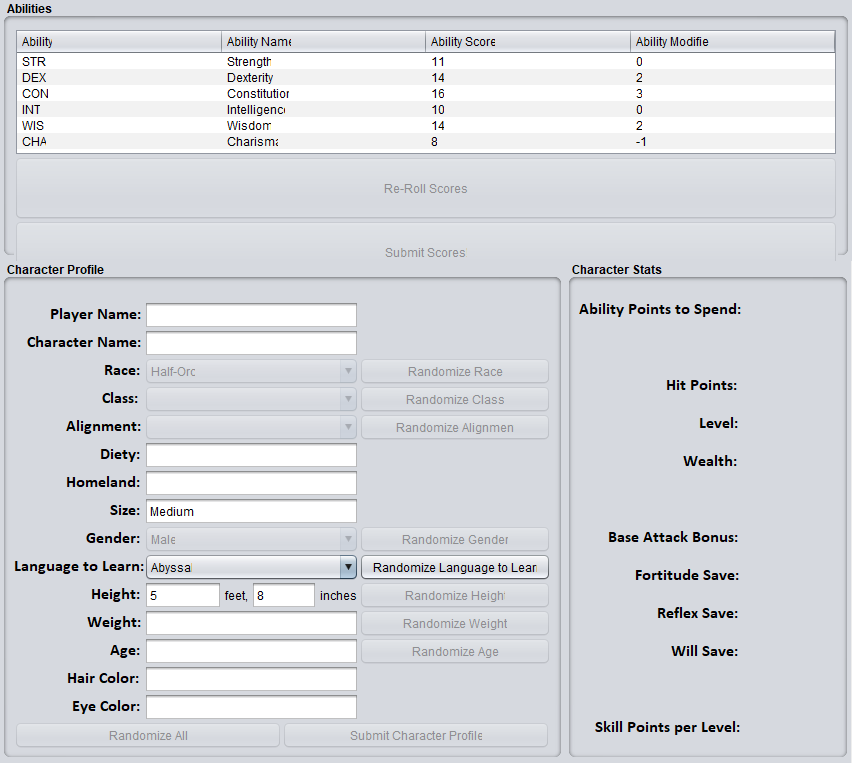
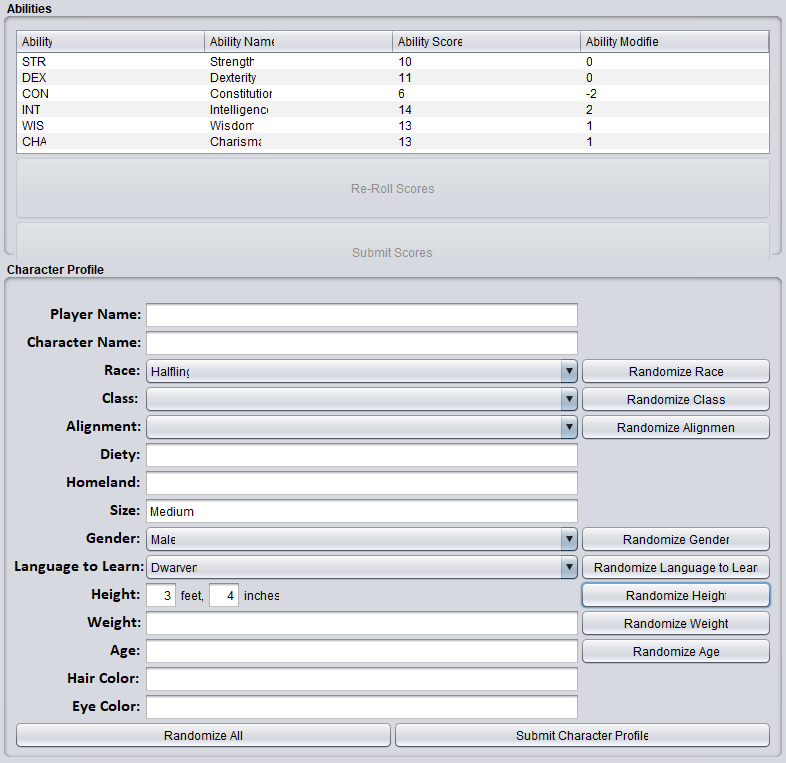
Height field is no longer excessively large.
Just need to get the right ideal size for the text fields.

diff --git a/Pathfinder/src/application/CharacterPane.java b/Pathfinder/src/application/CharacterPane.java
@@ -1,6 +1,8 @@
 package application;
 
 import java.awt.BorderLayout;
+import java.awt.Dimension;
+import java.awt.FlowLayout;
 import java.awt.Font;
 import java.awt.GridLayout;
 import java.awt.event.ActionEvent;
@@ -100,10 +102,6 @@ public class CharacterPane extends JPanel implements ActionListener
     JLabel hairLabel = new JLabel("Hair Color: ");
     JLabel eyeLabel = new JLabel("Eye Color: ");
 
-    /*
-     * int x = 10; int y = 10; int w = 200; int h = 50;
-     */
-
     JLabel[] labels = {playerNameLabel, charNameLabel, raceLabel, classLabel, alignLabel,
         dietyLabel, homeLabel, sizeLabel, genderLabel, languageLabel, heightLabel, weightLabel,
         ageLabel, hairLabel, eyeLabel};
@@ -146,7 +144,7 @@ public class CharacterPane extends JPanel implements ActionListener
     };
     formatter.setValueClass(Integer.class);
     formatter.setMinimum(0);
-    formatter.setMaximum(Integer.MAX_VALUE);
+    formatter.setMaximum(1000);
     formatter.setAllowsInvalid(false);
     formatter.setCommitsOnValidEdit(true);
 
@@ -156,16 +154,11 @@ public class CharacterPane extends JPanel implements ActionListener
 
     // Panel for the character's height
     JPanel heightPane = new JPanel();
-    heightPane.setLayout(new GridLayout(1, 2));
-    JPanel feetPane = new JPanel();
-    feetPane.setLayout(new BorderLayout());
-    JPanel inchesPane = new JPanel();
-    inchesPane.setLayout(new BorderLayout());
+    heightPane.setLayout(new BoxLayout(heightPane, BoxLayout.X_AXIS));
 
     // Panel for the character's weight
     JPanel weightPane = new JPanel();
-    GridLayout wl = new GridLayout(1, 2);
-    weightPane.setLayout(wl);
+    weightPane.setLayout(new GridLayout(1, 2));
 
     // Initialize the text fields
     playerNameField = new JTextField();
@@ -177,14 +170,18 @@ public class CharacterPane extends JPanel implements ActionListener
     hairColorField = new JTextField();
     eyeColorField = new JTextField();
 
+    // TODO - Size of text fields will get too small. Gotta find the balance.
+    // Create a pane for all of the height info fields
     heightFtField = new JFormattedTextField(formatter);
-    feetPane.add(heightFtField, BorderLayout.CENTER);
-    feetPane.add(new JLabel(" feet, "), BorderLayout.EAST);
+    heightFtField.setHorizontalAlignment(SwingConstants.RIGHT);
+    heightPane.add(heightFtField);
+    heightPane.add(new JLabel(" feet, "));
+    
     heightInField = new JFormattedTextField(formatter);
-    inchesPane.add(heightInField, BorderLayout.CENTER);
-    inchesPane.add(new JLabel(" inches "), BorderLayout.EAST);
-    heightPane.add(feetPane);
-    heightPane.add(inchesPane);
+    heightInField.setHorizontalAlignment(SwingConstants.RIGHT);
+    heightPane.add(heightInField);
+    heightPane.add(new JLabel(" inches"));
+    heightPane.add(Box.createRigidArea(new Dimension(300, 0)));
 
     weightField = new JFormattedTextField(formatter);
     weightPane.add(weightField);
